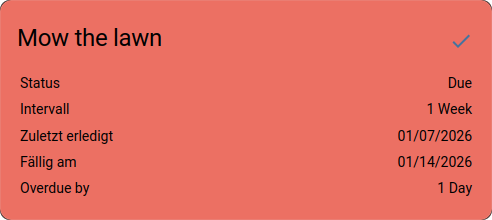
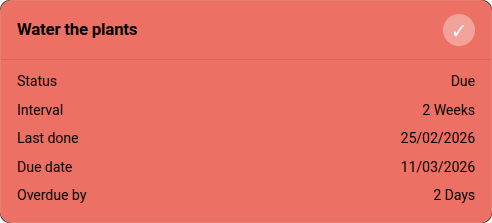
Small corrections to the layout of the panel and card

diff --git a/frontend/task-tracker-card.js b/frontend/task-tracker-card.js
@@ -35,7 +35,7 @@ class TaskTracker extends HTMLElement {
             justify-content: space-between;
             align-items: center;
             padding: 12px 16px;
-            font-size: 1rem;
+            font-size: 1.2rem;
             font-weight: 600;
             border-bottom: 1px solid rgba(0,0,0,0.1);
           }
@@ -45,6 +45,7 @@ class TaskTracker extends HTMLElement {
             overflow: hidden;
             text-overflow: ellipsis;
             white-space: nowrap;
+            color: black;
           }
           .mark-done-btn {
             background: rgba(255,255,255,0.35);
@@ -64,7 +65,7 @@ class TaskTracker extends HTMLElement {
             background: rgba(255,255,255,0.55);
           }
           .card-content {
-            padding: 8px 16px 12px;
+            padding: 16px 16px 12px;
           }
           table {
             width: 100%;
@@ -72,7 +73,7 @@ class TaskTracker extends HTMLElement {
           }
           td {
             padding: 3px 0;
-            font-size: 0.875rem;
+            font-size: 1rem;
           }
           td:last-child {
             text-align: right;

diff --git a/frontend/task-tracker-panel.js b/frontend/task-tracker-panel.js
@@ -236,6 +236,7 @@ class TaskTrackerPanel extends HTMLElement {
           overflow: hidden;
           text-overflow: ellipsis;
           white-space: nowrap;
+          font-size: 1.2rem;
         }
         .mark-done-btn {
           background: rgba(255,255,255,0.35);
@@ -263,7 +264,7 @@ class TaskTrackerPanel extends HTMLElement {
         }
         td {
           padding: 3px 0;
-          font-size: 0.875rem;
+          font-size: 1rem;
         }
         td:last-child {
           text-align: right;
